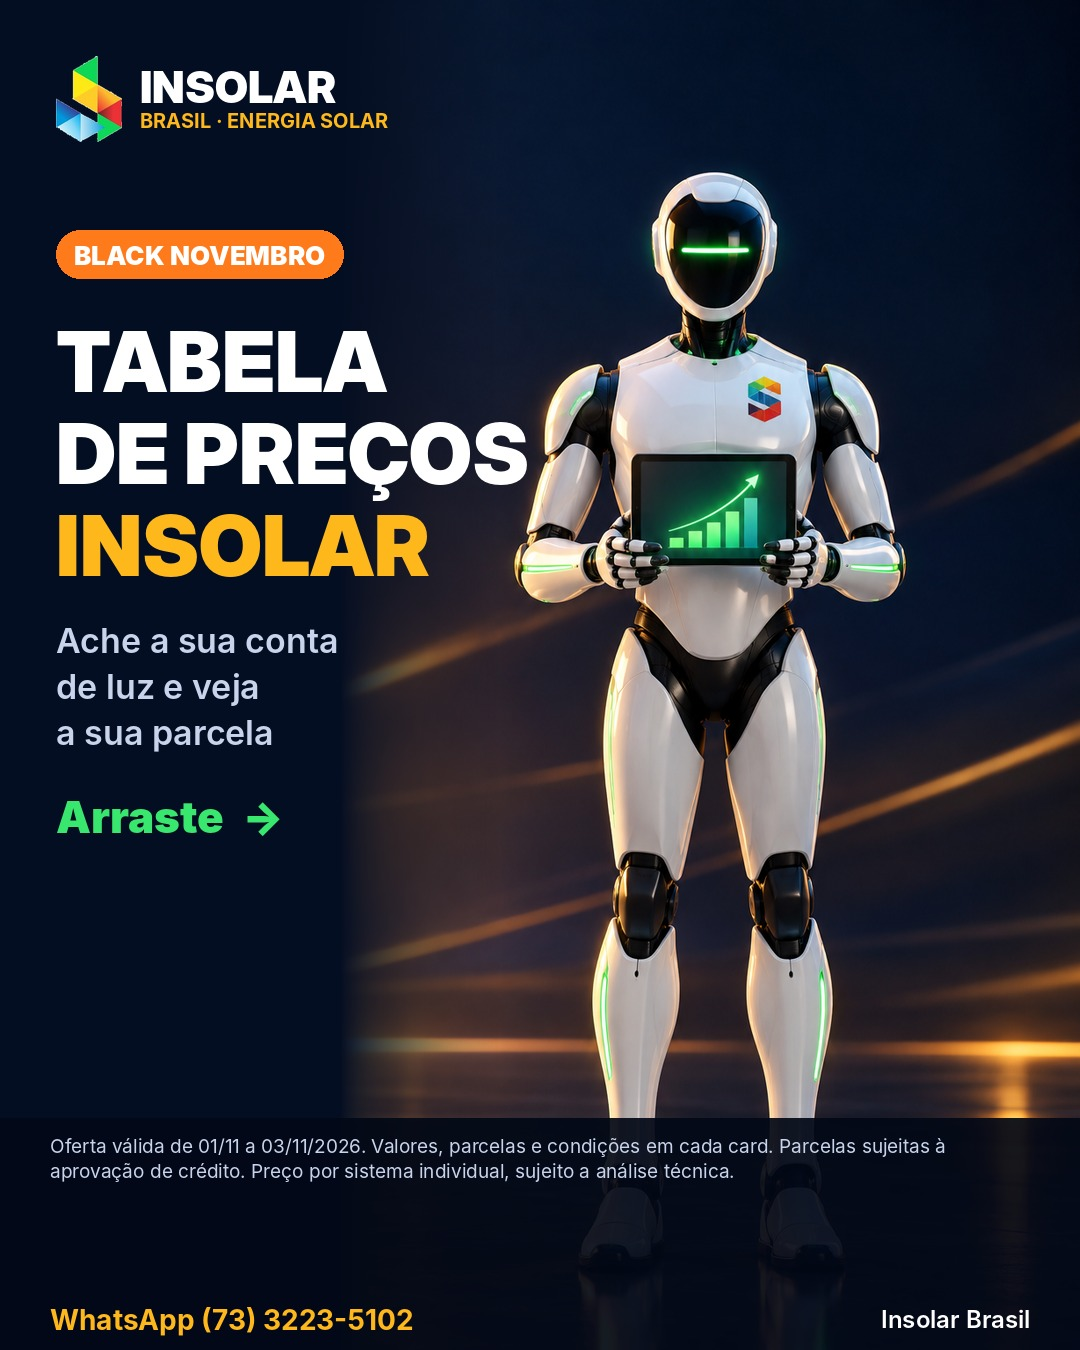
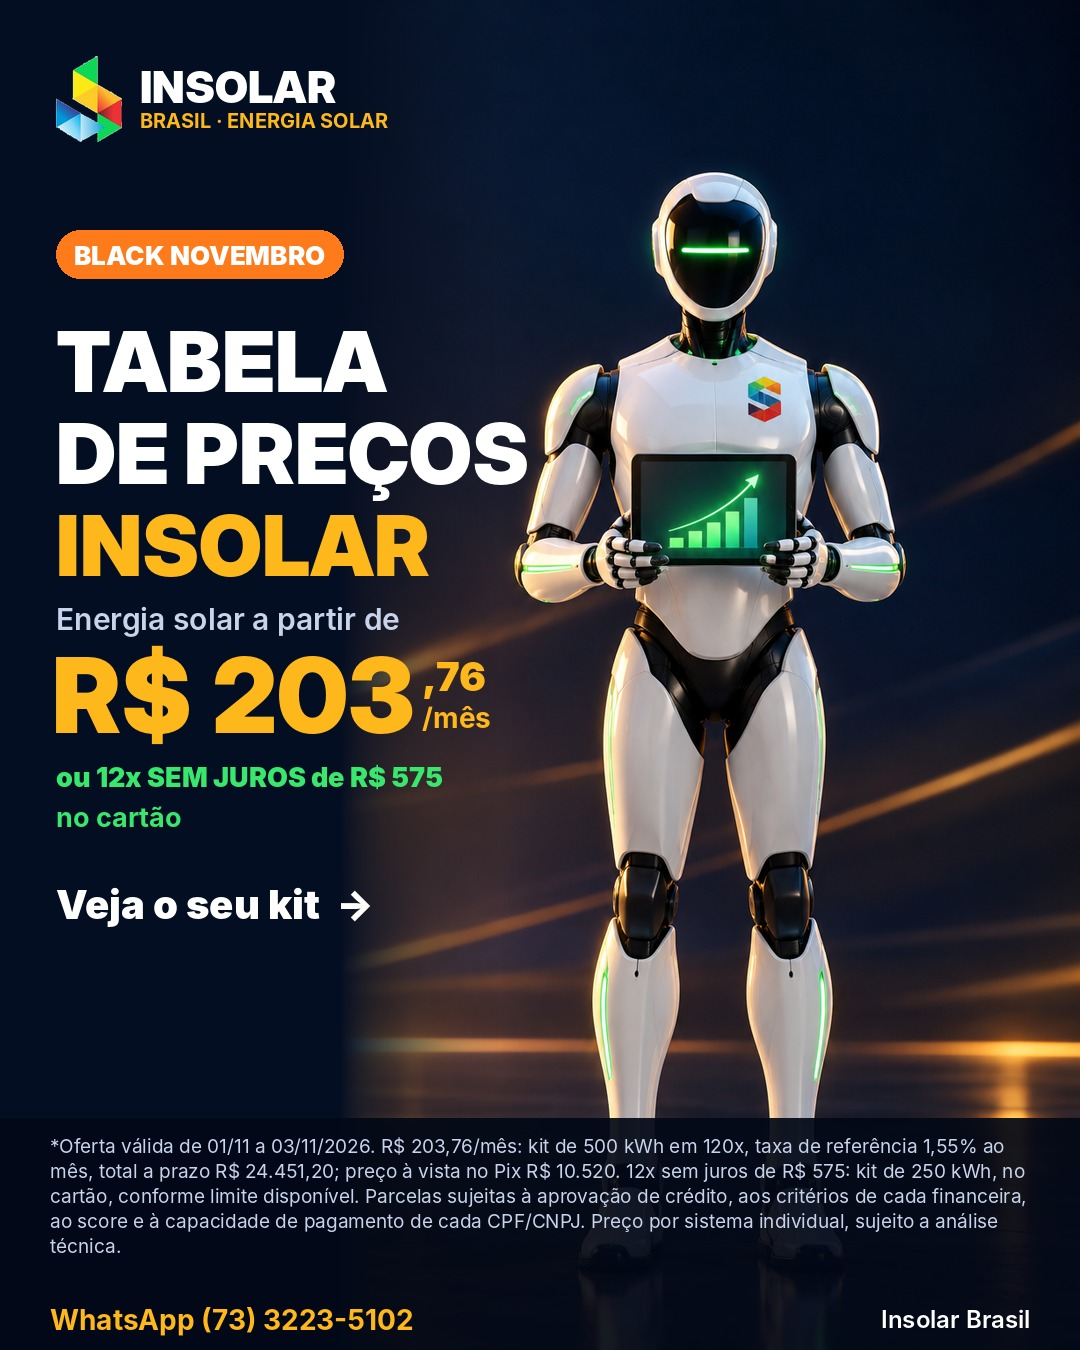
Capa com preço

Changed region(s): [[0.0306, 0.84, 0.9472, 0.9333], [0.0306, 0.4356, 0.4583, 0.6222], [0.0611, 0.6533, 0.3361, 0.6844]]

diff --git a/2026-11/precos/cards.py b/2026-11/precos/cards.py
@@ -106,10 +106,14 @@ def capa():
     tag(d,X,230,'BLACK NOVEMBRO')
     f=F('InterDisplay-Black.otf',84)
     for i,t in enumerate(['TABELA','DE PREÇOS','INSOLAR']): d.text((X,310+i*92),t,font=f,fill=WHITE if i<2 else GOLD)
-    f2=F('Inter-SemiBold.otf',34)
-    for i,t in enumerate(['Ache a sua conta','de luz e veja','a sua parcela']): d.text((X,620+i*46),t,font=f2,fill=SOFT)
-    d.text((X,790),'Arraste  →',font=F('Inter-Black.otf',44),fill=GREEN)
-    rodape(c,f'Oferta válida de {VAL}. Valores, parcelas e condições em cada card. Parcelas sujeitas à aprovação de crédito. Preço por sistema individual, sujeito a análise técnica.')
+    d.text((X,600),'Energia solar a partir de',font=F('Inter-SemiBold.otf',30),fill=SOFT)
+    fp=F('InterDisplay-Black.otf',104); t='R$ 203'; d.text((X-4,632),t,font=fp,fill=GOLD); wv=d.textlength(t,font=fp)
+    d.text((X+wv+4,652),',76',font=F('Inter-Black.otf',40),fill=GOLD)
+    d.text((X+wv+4,700),'/mês',font=F('Inter-Bold.otf',28),fill=GOLD)
+    d.text((X,760),'ou 12x SEM JUROS de R$ 575',font=F('Inter-Black.otf',27),fill=GREEN)
+    d.text((X,800),'no cartão',font=F('Inter-Bold.otf',27),fill=GREEN)
+    d.text((X,880),'Veja o seu kit  →',font=F('Inter-Black.otf',40),fill=WHITE)
+    rodape(c,f'*Oferta válida de {VAL}. R$ 203,76/mês: kit de 500 kWh em 120x, taxa de referência 1,55% ao mês, total a prazo R$ 24.451,20; preço à vista no Pix R$ 10.520. 12x sem juros de R$ 575: kit de 250 kWh, no cartão, conforme limite disponível. Parcelas sujeitas à aprovação de crédito, aos critérios de cada financeira, ao score e à capacidade de pagamento de cada CPF/CNPJ. Preço por sistema individual, sujeito a análise técnica.')
     c.save('out/precos/00_capa.jpg',quality=92)
 
 def final():
